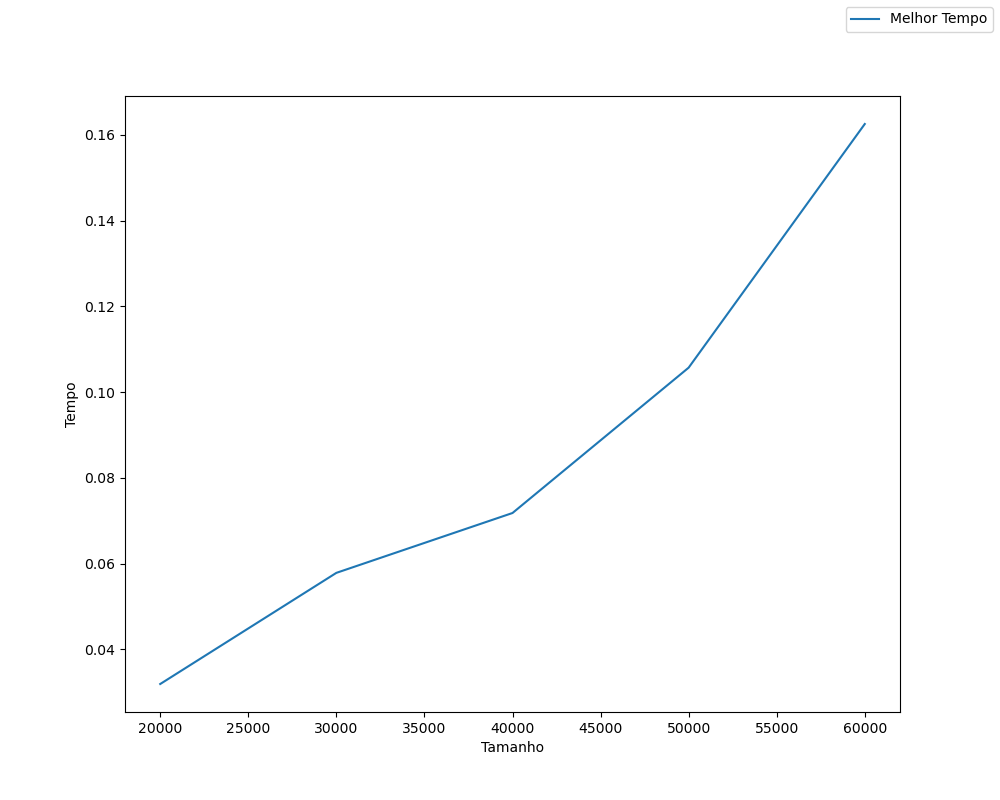
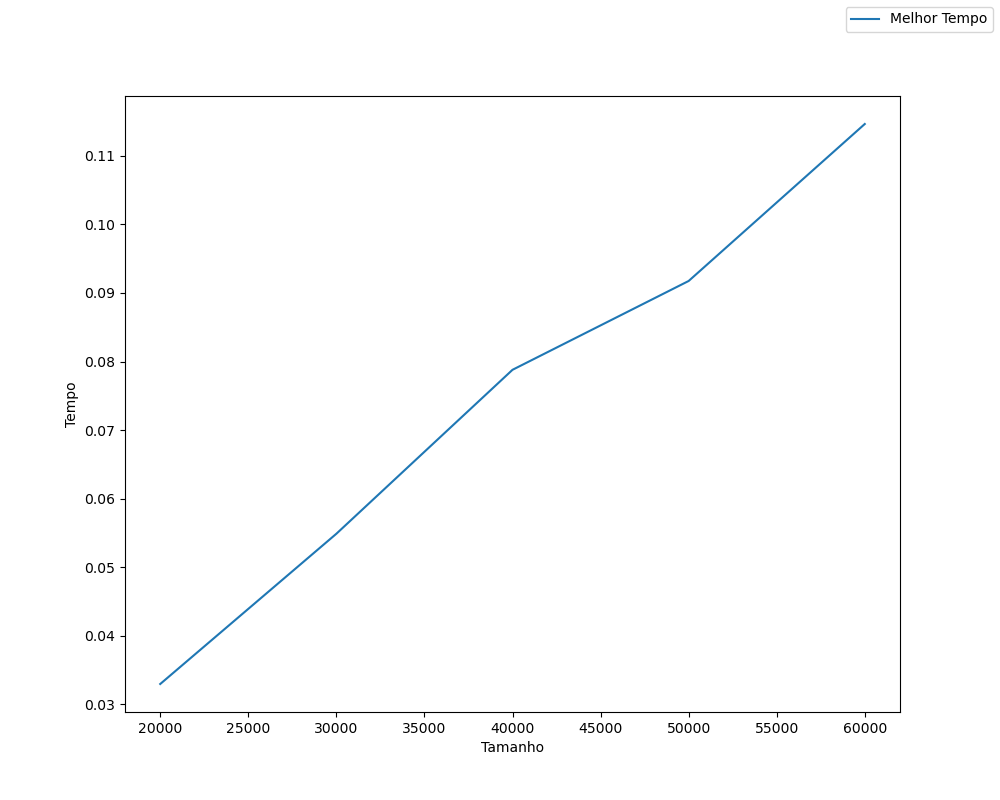
bucketSort

diff --git a/bucketSort/bucketSort.py b/bucketSort/bucketSort.py
@@ -1,0 +1,76 @@
+import matplotlib as mpl
+import matplotlib.pyplot as plt
+import random
+import time
+
+def desenhaGrafico(x, y, xl="Entradas", yl="Saídas",name="bucketSort"):
+    fig = plt.figure(figsize=(10, 8))
+    ax = fig.add_subplot(111)
+    ax.plot(x, y, label="Melhor Tempo")
+    ax.legend(bbox_to_anchor=(1, 1), bbox_transform=plt.gcf().transFigure)
+    plt.ylabel(yl)
+    plt.xlabel(xl)
+    fig.savefig(name+'.png')
+
+def geraLista(tam):
+    lista = random.sample(range(1, tam+1), tam)
+    return lista
+
+tamanhos_listas = [15000,25000,35000,45000,55000]
+tempos = []
+
+def bucketSort(lista):
+    bucket = [[], [], [], [], []]
+    for i in range(len(lista)):
+        divisor = len(lista)//5
+        num = lista[i]
+        if num < divisor:
+            bucket[0].append(lista[i])
+
+        elif num < divisor*2:
+            bucket[1].append(lista[i])
+
+        elif num < divisor*3:
+            bucket[2].append(lista[i])
+
+        elif num < divisor*4:
+            bucket[3].append(lista[i])
+
+        else:
+            bucket[4].append(lista[i])
+
+    for j in range(len(bucket)):
+        lista_aux = insertSort(bucket[j])
+        bucket[j] = lista_aux
+
+    lista = []
+    for listaAux in bucket:
+        for num in listaAux:
+            lista.append(num)
+
+    return lista
+
+def insertSort(lista):
+    n = len(lista)
+    # print(lista)
+    for i in range(n):
+        chave = lista[i]
+        y = i - 1
+        while chave < lista[y] and y >= 0:
+            lista[y + 1] = lista[y]
+            y -= 1
+        lista[y + 1] = chave
+    # print(lista)
+    return lista
+
+
+for tamanho in tamanhos_listas:
+    lista = geraLista(tamanho)
+    print("lista com", tamanho)
+    agora = time.time()
+    ordenada = bucketSort(lista)
+    depois = time.time()
+    tempos.append(depois - agora)
+
+
+desenhaGrafico(tamanhos_listas, tempos, "Tamanho", "Tempo", "bucketSortListaAleatoria")

diff --git a/radixSort/radixSort.py b/radixSort/radixSort.py
@@ -49,7 +49,7 @@ for tamanho in tamanhos_listas:
     agora = time.time()
     ordenada = radixSort(lista)
     depois = time.time()
-    print(ordenada)
+    #print(ordenada)
     tempos.append(depois - agora)
 
 
